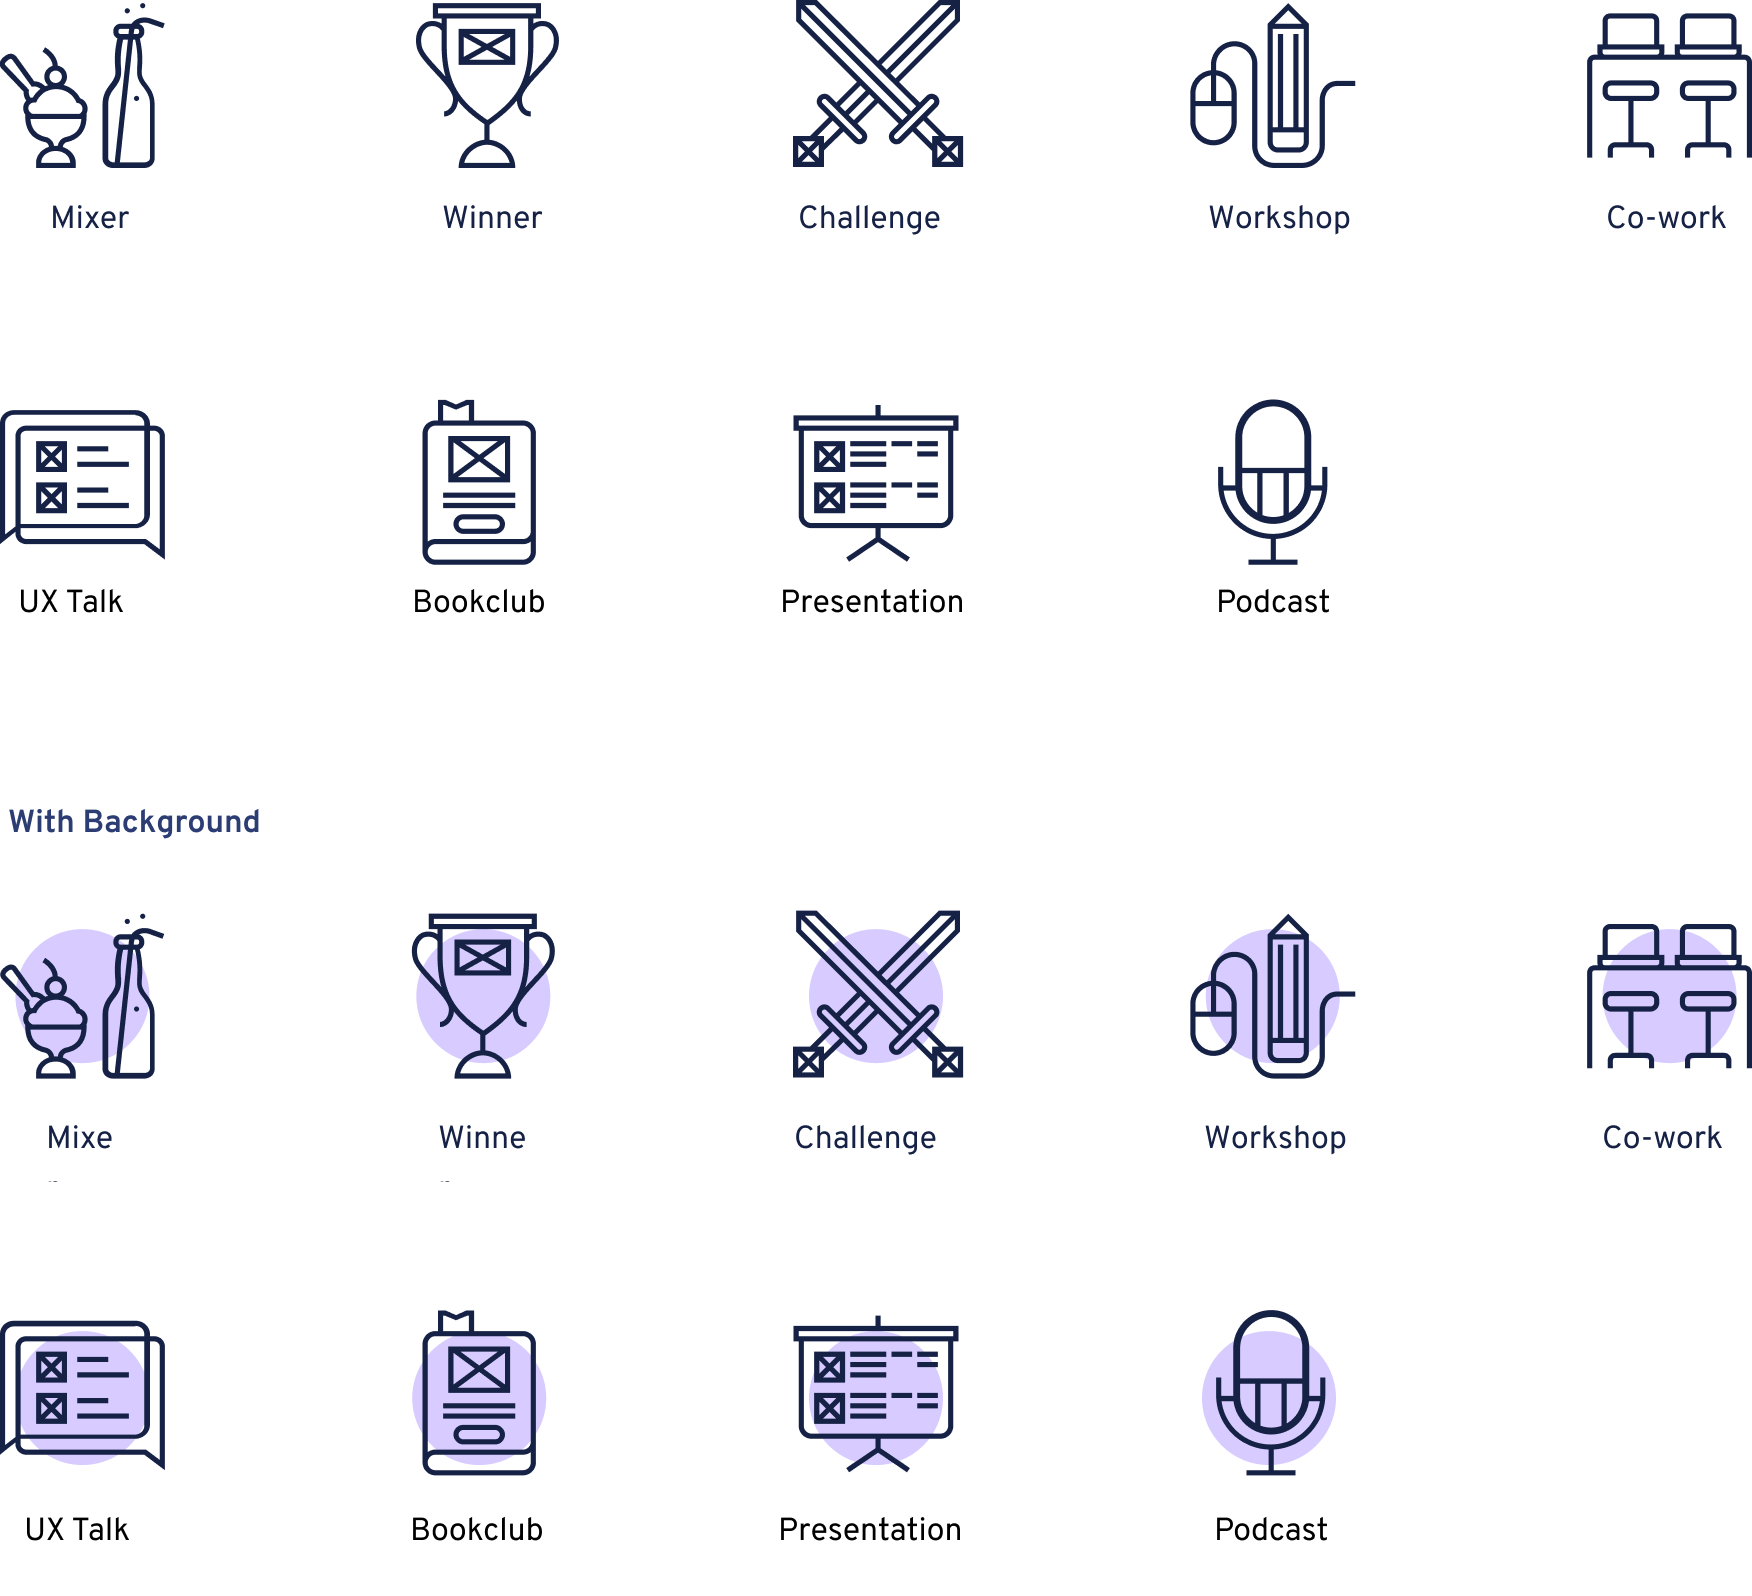
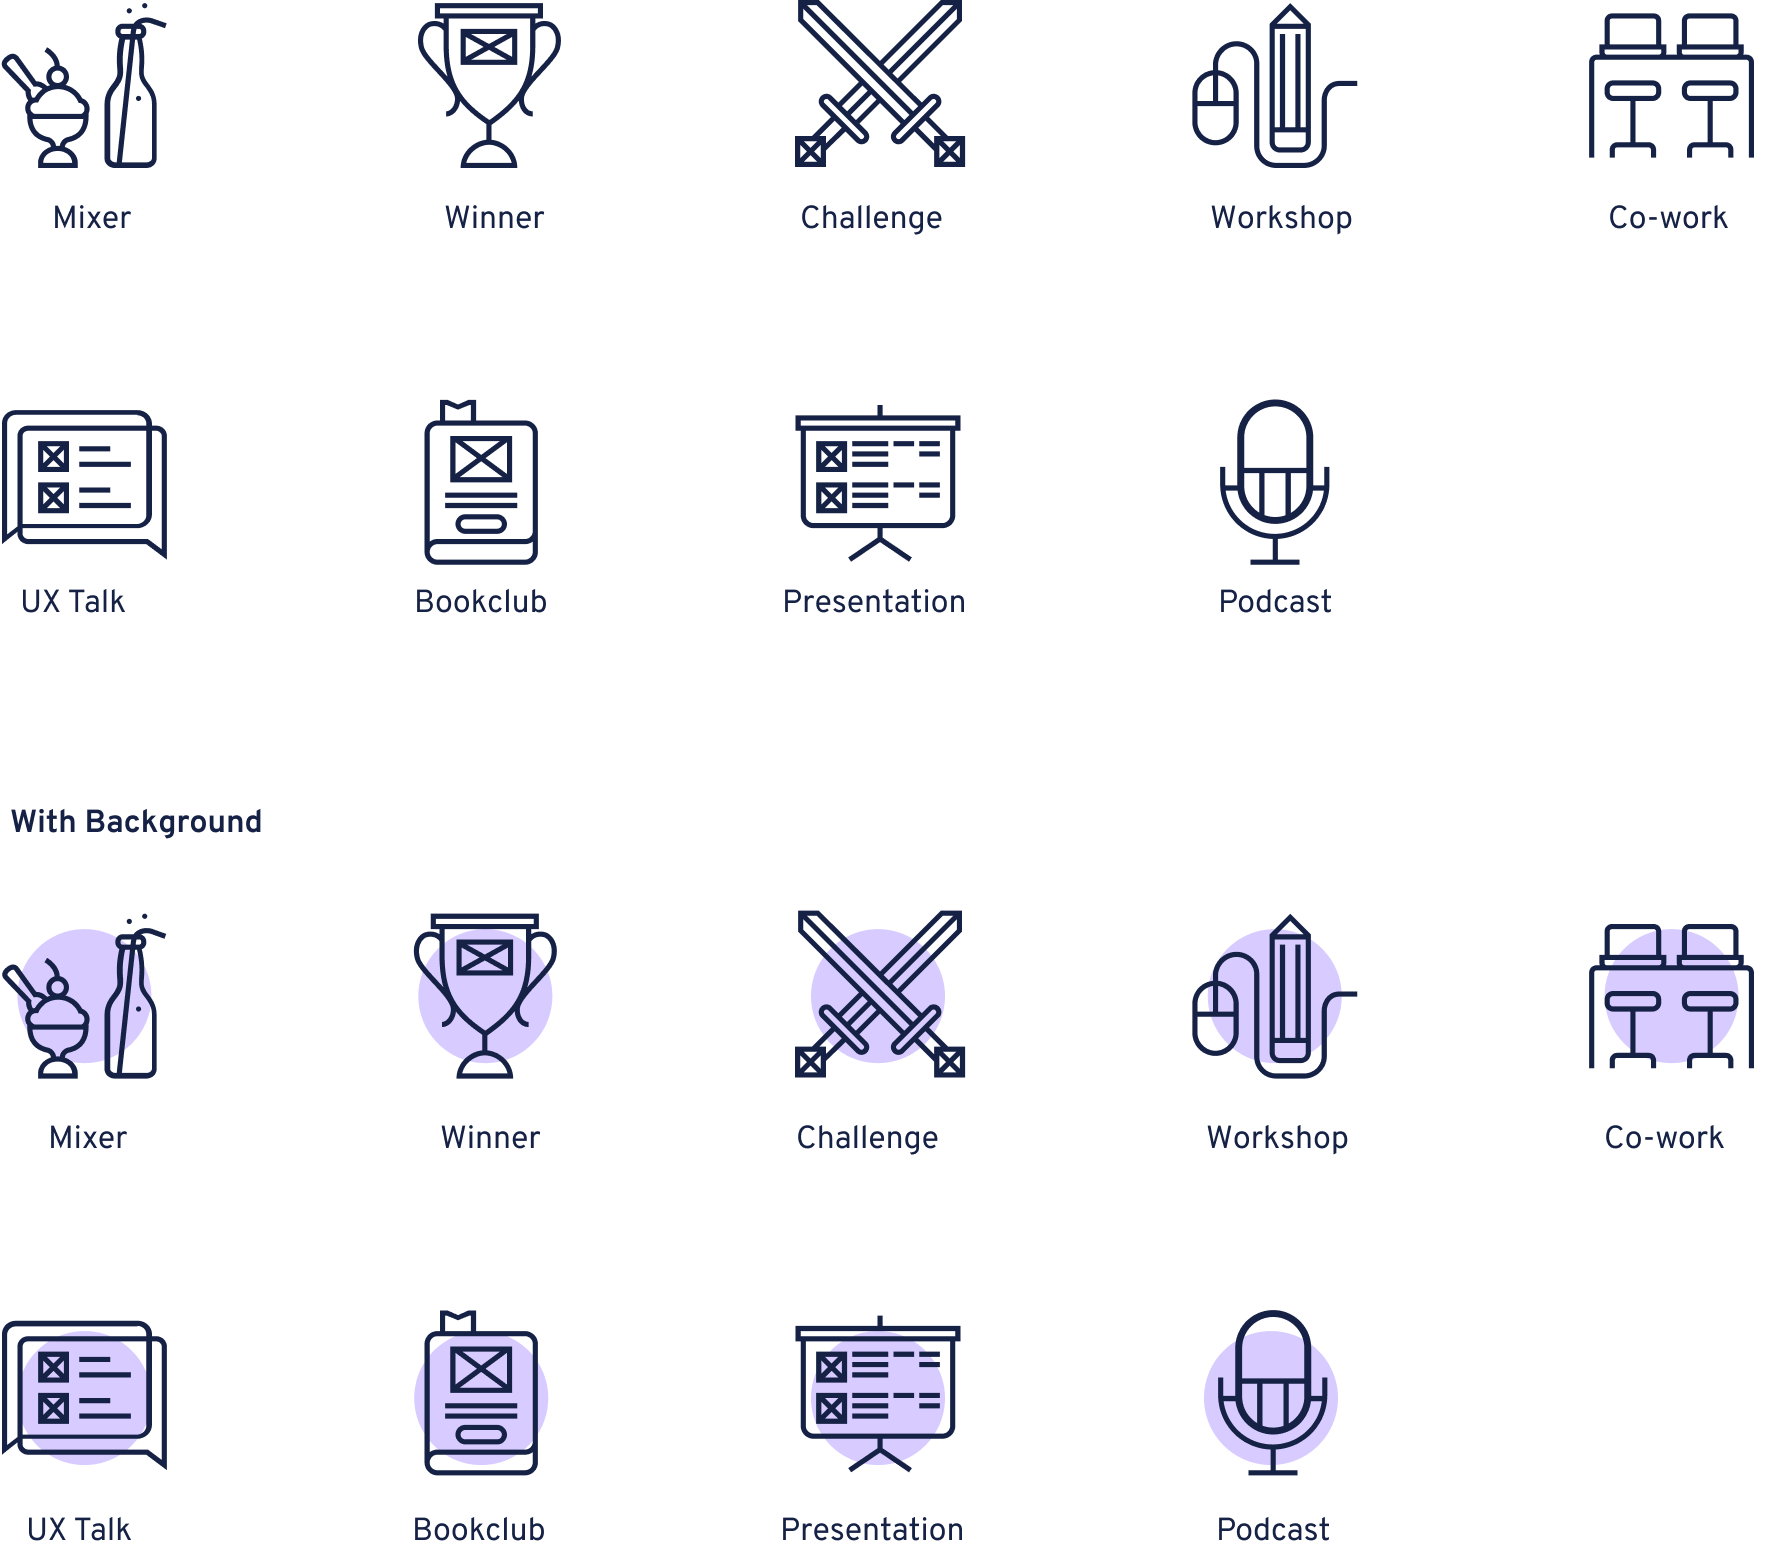
fixed imaged for safari and updated text width

diff --git a/UXWLogosAndIcons.js b/UXWLogosAndIcons.js
@@ -4,21 +4,21 @@ function UXWLogosAndIcons(props) {
       <div className="flex-col flex-shrink-0 py-4">
         <div className="container">
           <UXWSubsection anchor="snav-logos" title="Logos">
-            <p>The Wizards hat will always accompany the UX WIZARDS text.  The rectangular version will be the main logo and includes an arrow cursor as if the logo is being clicked on.</p><br />
-            <p>The square and circle versions are to be used for things such as our Slack group’s profile.</p><br />
-            <p className="pb-4">There are three variations in colors - white text on black, black text on white and white text on our branded Navy, Magician’s Cloak.</p>
+            <p className="max-w-prose">The Wizards hat will always accompany the UX Wizards text.  The rectangular version will be the main logo and includes an arrow cursor as if the logo is being clicked on.</p><br />
+            <p className="max-w-prose">The square and circle versions are to be used for things such as our Slack group’s profile.</p><br />
+            <p className="pb-4 max-w-prose">There are three variations in colors - white text on black, black text on white and white text on our branded Navy, Magician’s Cloak.</p>
             <img src="assets/logos.png" alt="" />
           </UXWSubsection>
           <UXWSubsection anchor="snav-clearance" title="Clearance">
-            <p>To ensure that logos are clearly visible, surround with clear space that is free of type, graphics, and other elements to avoid visual clutter.</p>
-            <img src="assets/clearance.png" alt="" />
+            <p className="max-w-prose">To ensure that logos are clearly visible, surround with clear space that is free of type, graphics, and other elements to avoid visual clutter.</p>
+            <img src="assets/clearance.png" alt="" className="w-3/4"/>
           </UXWSubsection>
           <UXWSubsection anchor="snav-icongraphy" title="Icongraphy Style">
-            <p>Icon designs are intended to be recognized and communicate immediately. Our main icons are outlined style which use a clear stroke and the Magician’s Cloak navy color. Icon + light purple circle background is a variation. This background pops and draws extra attention to the icons. </p><br />
-            <img className="my-16 w-4/5" src="assets/icongraphy.png" alt="" />
+            <p className="max-w-prose">Icon designs are intended to be recognized and communicate immediately. Our main icons are outlined style which use a clear stroke and the Magician’s Cloak navy color. Icon + light purple circle background is a variation. This background pops and draws extra attention to the icons. </p><br />
+            <img className="my-16 w-3/4" src="assets/icongraphy.png" alt="" />
           </UXWSubsection>
-          <UXWSubsection anchor="snav-library" title="Library">
-            <p className="pb-16">Each download includes .png and svg formats. Also, it comes with other color options.</p>
+          <UXWSubsection anchor="snav-library" title="Downloads">
+            <p className="pb-16 max-w-prose">Each download includes .png and .svg formats. Also, it comes with other color options.</p>
             <div className="grid grid-cols-2 gap-8">
               <div className="flex flex-col">
                 <div className="flex flex-row bg-gray-200 rounded-t-lg">
@@ -28,7 +28,7 @@ function UXWLogosAndIcons(props) {
                   <div className="flex-grow "></div>
                   <div className="py-2 pr-4">
                     <a href="assets/library/horizontal.zip" download>
-                      <i className="bi bi-download"></i>
+                      <i className="bi bi-download text-xl"></i>
                     </a>
                   </div>
                 </div>
@@ -44,7 +44,7 @@ function UXWLogosAndIcons(props) {
                   <div className="flex-grow "></div>
                   <div className="py-2 pr-4">
                     <a href="assets/library/square.zip" download>
-                      <i className="bi bi-download"></i>
+                      <i className="bi bi-download text-xl"></i>
                     </a>
                   </div>
                 </div>
@@ -60,12 +60,12 @@ function UXWLogosAndIcons(props) {
                   <div className="flex-grow "></div>
                   <div className="py-2 pr-4">
                     <a href="assets/library/circle.zip" download>
-                      <i className="bi bi-download"></i>
+                      <i className="bi bi-download text-xl"></i>
                     </a>
                   </div>
                 </div>
                 <div className="flex flex-row justify-center bg-gray-100 rounded-b-lg">
-                  <img className="w-24 py-8" src="logo.png" alt="" />
+                  <img className="py-8" src="assets/logo-circle-main.svg" alt="" />
                 </div>
               </div>
               <div className="flex flex-col">
@@ -76,12 +76,12 @@ function UXWLogosAndIcons(props) {
                   <div className="flex-grow "></div>
                   <div className="py-2 pr-4">
                     <a href="assets/library/podcast.zip" download>
-                      <i className="bi bi-download"></i>
+                      <i className="bi bi-download text-xl"></i>
                     </a>
                   </div>
                 </div>
                 <div className="flex flex-row justify-center bg-gray-100 rounded-b-lg">
-                  <img className="w-24 py-8" src="assets/podcast.svg" alt="" />
+                  <img className="py-8" src="assets/podcast.png" alt="" />
                 </div>
               </div>
             </div>
@@ -94,12 +94,12 @@ function UXWLogosAndIcons(props) {
                   <div className="flex-grow"></div>
                   <div className="py-2 pr-4">
                     <a href="assets/library/icongraphy.zip" download>
-                      <i className="bi bi-download"></i>
+                      <i className="bi bi-download text-xl"></i>
                     </a>
                   </div>
                 </div>
                 <div className="flex flex-row justify-center bg-gray-100 rounded-b-lg">
-                  <img className="w-3/5 py-12" src="assets/icongraphy.png" alt="" />
+                  <img className="w-3/5 py-12 icongraphy" src="assets/icongraphy.png" alt="" />
                 </div>
               </div>
             </div>

diff --git a/main.js b/main.js
@@ -159,7 +159,7 @@
           anchor: "snav-icongraphy",
         },
         {
-          subtitle: "Library",
+          subtitle: "Downloads",
           anchor: "snav-library",
         },
       ],

diff --git a/uxw.css b/uxw.css
@@ -27,3 +27,6 @@ p {
 }
 
 /* Logos and Icons */
+img.w-3\/5.py-12.icongraphy{
+  height:60%;
+}
